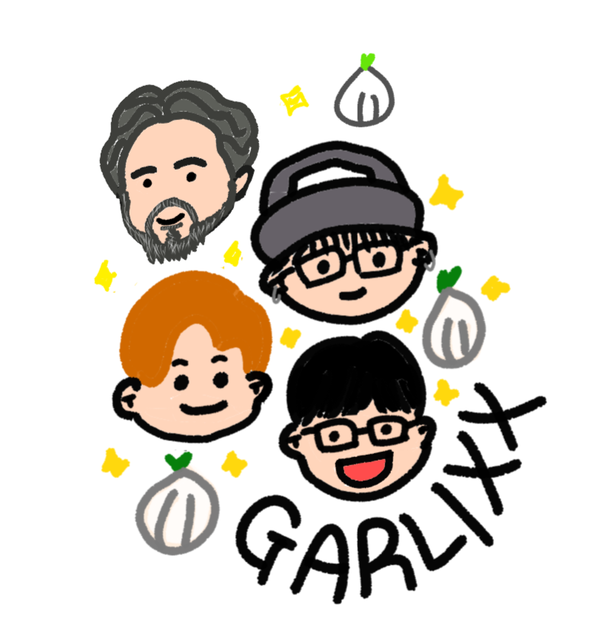
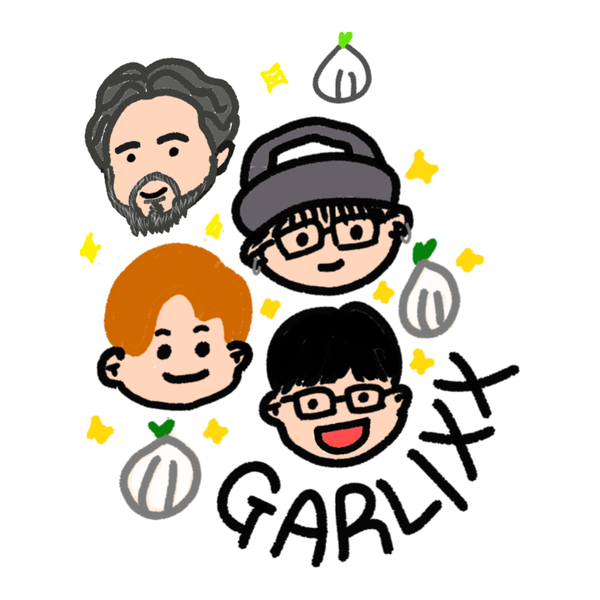
인장 스티커 여백 추가해서 그림이 잘리지 않게 수정
Claude-Session: https://claude.ai/code/session_01UfP8GWsJ1qkKt3e11zrY95

Changed region(s): [[0.12, 0.03, 0.9, 0.96]]

diff --git a/index.html b/index.html
@@ -60,7 +60,7 @@ nav button.on{color:var(--ink);background:var(--yel)}
 .hero .dday{font-family:var(--serif);font-size:64px;font-weight:600;letter-spacing:-2px;line-height:1;margin-top:14px}
 .hero .title{font-size:20px;font-weight:800;margin-top:12px;line-height:1.35;letter-spacing:-.5px;padding-right:84px}
 .hero .meta{font-size:13px;color:rgba(255,248,236,.7);margin-top:6px;line-height:1.5}
-.stk{position:absolute;right:16px;top:16px;width:92px;height:92px;background:#fff;border-radius:24px;padding:4px;transform:rotate(7deg);box-shadow:0 10px 24px rgba(0,0,0,.35);animation:stick 4.5s ease-in-out infinite;pointer-events:none}
+.stk{position:absolute;right:16px;top:16px;width:92px;height:92px;background:#fff;border-radius:24px;padding:6px;overflow:hidden;transform:rotate(7deg);box-shadow:0 10px 24px rgba(0,0,0,.35);animation:stick 4.5s ease-in-out infinite;pointer-events:none}
 .stk img{width:100%;height:100%;object-fit:contain;display:block}
 @keyframes stick{0%,100%{transform:rotate(7deg) translateY(0)}50%{transform:rotate(4deg) translateY(-4px)}}
 .spk{position:absolute;color:var(--yel);font-style:normal;font-size:13px;opacity:0;animation:twinkle 3.2s ease-in-out infinite;pointer-events:none}
